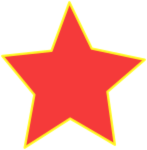
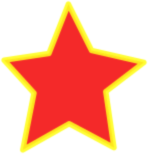
clean: delete extra files, scripts, sources

Changed region(s): [[0.0, 0.0, 1.0, 1.0]]

diff --git a/src/js/boss/boss.js b/src/js/boss/boss.js
@@ -11,7 +11,7 @@ class Boss {
         this.hp = 200;
         this.phase = 1;
         this.state = 'fly';
-        this.attackCoolDown = 0;
+        this.cooldown = 0;
         this.speed = 7;
         this.alive = true;
         this.area = area;

diff --git a/src/js/hero/hero.js b/src/js/hero/hero.js
@@ -16,6 +16,6 @@ export const hero = {
     onGround: false,
     direction: 1,
     isAttacking: false,
-    attackCoolDown: 0,
+    cooldown: 0,
     attackDuration: 0
 }
